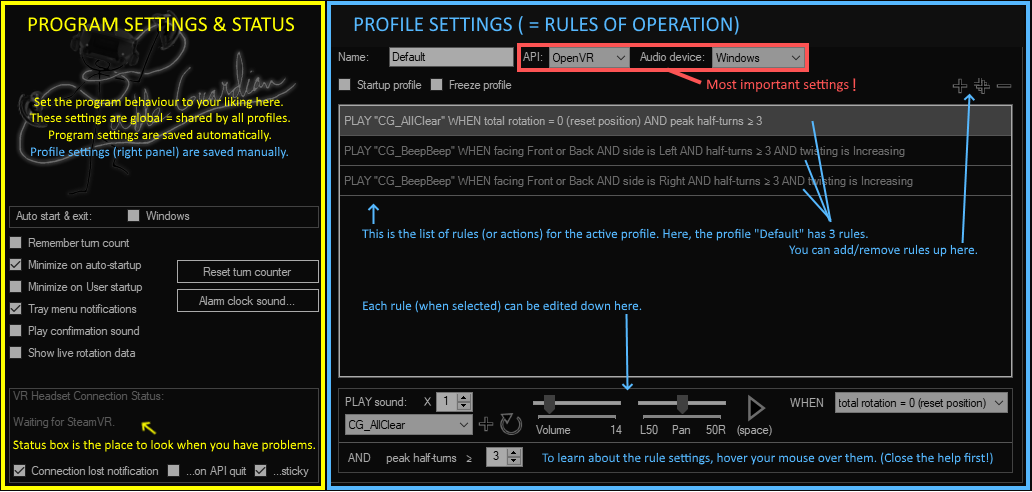
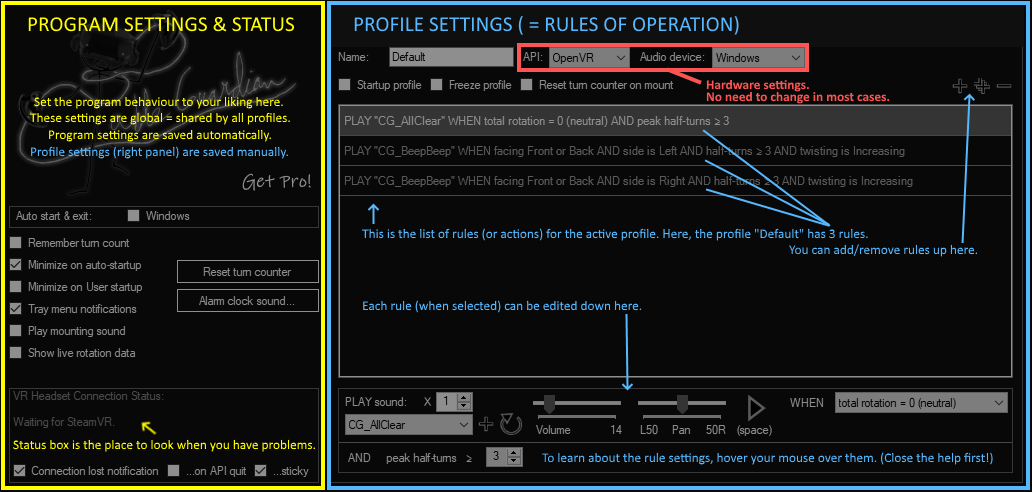
- revised help form - get pro

diff --git a/Source/FormsAndControls/FormMain.Designer.cs b/Source/FormsAndControls/FormMain.Designer.cs
@@ -66,6 +66,7 @@
             this.numericUpDownRotMemory = new System.Windows.Forms.NumericUpDown();
             this.labelRotMemMinutes = new System.Windows.Forms.Label();
             this.profileEditor = new CableGuardian.ProfileEditor();
+            this.pictureBoxGetPro = new System.Windows.Forms.PictureBox();
             ((System.ComponentModel.ISupportInitialize)(this.pictureBoxMinimize)).BeginInit();
             ((System.ComponentModel.ISupportInitialize)(this.pictureBoxClose)).BeginInit();
             ((System.ComponentModel.ISupportInitialize)(this.pictureBoxLogo)).BeginInit();
@@ -76,6 +77,7 @@
             this.panel1.SuspendLayout();
             ((System.ComponentModel.ISupportInitialize)(this.pictureBoxSteamVRStartUp)).BeginInit();
             ((System.ComponentModel.ISupportInitialize)(this.numericUpDownRotMemory)).BeginInit();
+            ((System.ComponentModel.ISupportInitialize)(this.pictureBoxGetPro)).BeginInit();
             this.SuspendLayout();
             // 
             // buttonReset
@@ -482,6 +484,16 @@
             this.profileEditor.Size = new System.Drawing.Size(695, 445);
             this.profileEditor.TabIndex = 48;
             // 
+            // pictureBoxGetPro
+            // 
+            this.pictureBoxGetPro.Image = global::CableGuardian.Properties.Resources.GetPro;
+            this.pictureBoxGetPro.Location = new System.Drawing.Point(234, 166);
+            this.pictureBoxGetPro.Name = "pictureBoxGetPro";
+            this.pictureBoxGetPro.Size = new System.Drawing.Size(85, 32);
+            this.pictureBoxGetPro.SizeMode = System.Windows.Forms.PictureBoxSizeMode.AutoSize;
+            this.pictureBoxGetPro.TabIndex = 74;
+            this.pictureBoxGetPro.TabStop = false;
+            // 
             // FormMain
             // 
             this.AutoScaleDimensions = new System.Drawing.SizeF(6F, 13F);
@@ -489,6 +501,7 @@
             this.BackColor = System.Drawing.Color.FromArgb(((int)(((byte)(15)))), ((int)(((byte)(15)))), ((int)(((byte)(15)))));
             this.ClientSize = new System.Drawing.Size(1032, 492);
             this.ControlBox = false;
+            this.Controls.Add(this.pictureBoxGetPro);
             this.Controls.Add(this.labelRotMemMinutes);
             this.Controls.Add(this.panel1);
             this.Controls.Add(this.checkBoxSticky);
@@ -535,6 +548,7 @@
             this.panel1.PerformLayout();
             ((System.ComponentModel.ISupportInitialize)(this.pictureBoxSteamVRStartUp)).EndInit();
             ((System.ComponentModel.ISupportInitialize)(this.numericUpDownRotMemory)).EndInit();
+            ((System.ComponentModel.ISupportInitialize)(this.pictureBoxGetPro)).EndInit();
             this.ResumeLayout(false);
             this.PerformLayout();
 
@@ -577,6 +591,7 @@
         private System.Windows.Forms.CheckBox checkBoxRememberRotation;
         private System.Windows.Forms.NumericUpDown numericUpDownRotMemory;
         private System.Windows.Forms.Label labelRotMemMinutes;
+        private System.Windows.Forms.PictureBox pictureBoxGetPro;
     }
 }
 

diff --git a/Source/FormsAndControls/FormMain.cs b/Source/FormsAndControls/FormMain.cs
@@ -405,6 +405,13 @@ namespace CableGuardian
             TTip.SetToolTip(numericUpDownRotMemory, $"Time limit (minutes) for the turn count memory (when {Config.ProgramTitle} is closed). The last turn count will be used at startup if the elapsed time since the last exit is less or equal to this value." + Environment.NewLine
                                                     + "If more time has passed, turn count will be zero at startup. Useful when you want to make sure the turn count will be zero after a longer pause (during which you probably unwinded the cable)." + Environment.NewLine + Environment.NewLine
                                                     + "***    0 = no limit = remember forever    ***");
+            TTip.SetToolTip(pictureBoxGetPro, $"Cable Guardian Pro available!{Environment.NewLine}Click to visit the Steam Store page." + Environment.NewLine + Environment.NewLine
+                                        + "Features include:" + Environment.NewLine
+                                       + $"\u2022 Visual indicators" + Environment.NewLine
+                                       + $"\u2022 Floor markers" + Environment.NewLine
+                                       + $"\u2022 FOV measuring tool" + Environment.NewLine
+                                       + $"\u2022 Expandable user interface" + Environment.NewLine
+                                       + $"\u2022 More audio clips" + Environment.NewLine);
 
             buttonSave.ForeColor = Config.CGColor;            
             labelProf.ForeColor = Config.CGColor;
@@ -462,6 +469,9 @@ namespace CableGuardian
             pictureBoxMinimize.MouseLeave += (s, e) => { pictureBoxMinimize.Image = Properties.Resources.Minimize; };
             pictureBoxClose.MouseEnter += (s, e) => { pictureBoxClose.Image = Properties.Resources.Close_hover; };
             pictureBoxClose.MouseLeave += (s, e) => { pictureBoxClose.Image = Properties.Resources.Close; };
+            pictureBoxGetPro.MouseEnter += (s, e) => { pictureBoxGetPro.Image = Properties.Resources.GetPro_hover; };
+            pictureBoxGetPro.MouseLeave += (s, e) => { pictureBoxGetPro.Image = Properties.Resources.GetPro; };
+            pictureBoxGetPro.Click += PictureBoxGetPro_Click;
 
             buttonSave.Click += ButtonSave_Click;
             buttonReset.Click += ButtonReset_Click;
@@ -506,7 +516,19 @@ namespace CableGuardian
             AlarmTimer.Tick += AlarmTimer_Tick;
         }
 
-       
+        private void PictureBoxGetPro_Click(object sender, EventArgs e)
+        {
+            try
+            {
+                Process.Start("https://store.steampowered.com/app/1261250");             
+            }
+            catch (Exception ex)
+            {
+                string msg = "Sorry, unable to open the default web browser.  :(" 
+                        + Environment.NewLine + Environment.NewLine + ex.Message;
+                MessageBox.Show(this, msg, Config.ProgramTitle, MessageBoxButtons.OK, MessageBoxIcon.Error);
+            }
+        }
 
         void Exit()
         {

diff --git a/Source/Properties/Resources.Designer.cs b/Source/Properties/Resources.Designer.cs
@@ -240,6 +240,26 @@ namespace CableGuardian.Properties {
         /// <summary>
         ///   Looks up a localized resource of type System.Drawing.Bitmap.
         /// </summary>
+        internal static System.Drawing.Bitmap GetPro {
+            get {
+                object obj = ResourceManager.GetObject("GetPro", resourceCulture);
+                return ((System.Drawing.Bitmap)(obj));
+            }
+        }
+        
+        /// <summary>
+        ///   Looks up a localized resource of type System.Drawing.Bitmap.
+        /// </summary>
+        internal static System.Drawing.Bitmap GetPro_hover {
+            get {
+                object obj = ResourceManager.GetObject("GetPro_hover", resourceCulture);
+                return ((System.Drawing.Bitmap)(obj));
+            }
+        }
+        
+        /// <summary>
+        ///   Looks up a localized resource of type System.Drawing.Bitmap.
+        /// </summary>
         internal static System.Drawing.Bitmap Help {
             get {
                 object obj = ResourceManager.GetObject("Help", resourceCulture);

diff --git a/Source/Properties/AssemblyInfo.cs b/Source/Properties/AssemblyInfo.cs
@@ -32,5 +32,5 @@ using System.Runtime.InteropServices;
 // You can specify all the values or you can default the Build and Revision Numbers
 // by using the '*' as shown below:
 // [assembly: AssemblyVersion("1.0.*")]
-[assembly: AssemblyVersion("1.2.6.1")]
-[assembly: AssemblyFileVersion("1.2.6.1")]
+[assembly: AssemblyVersion("1.2.7.0")]
+[assembly: AssemblyFileVersion("1.2.7.0")]
